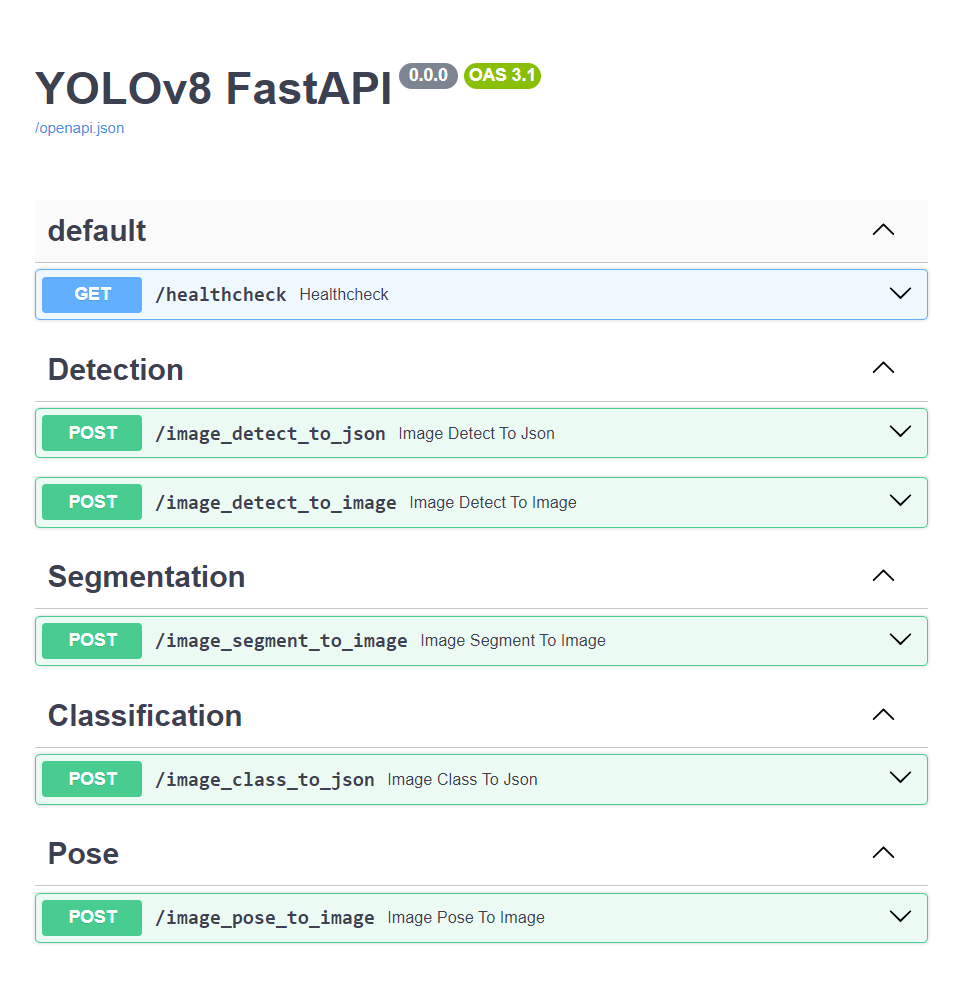
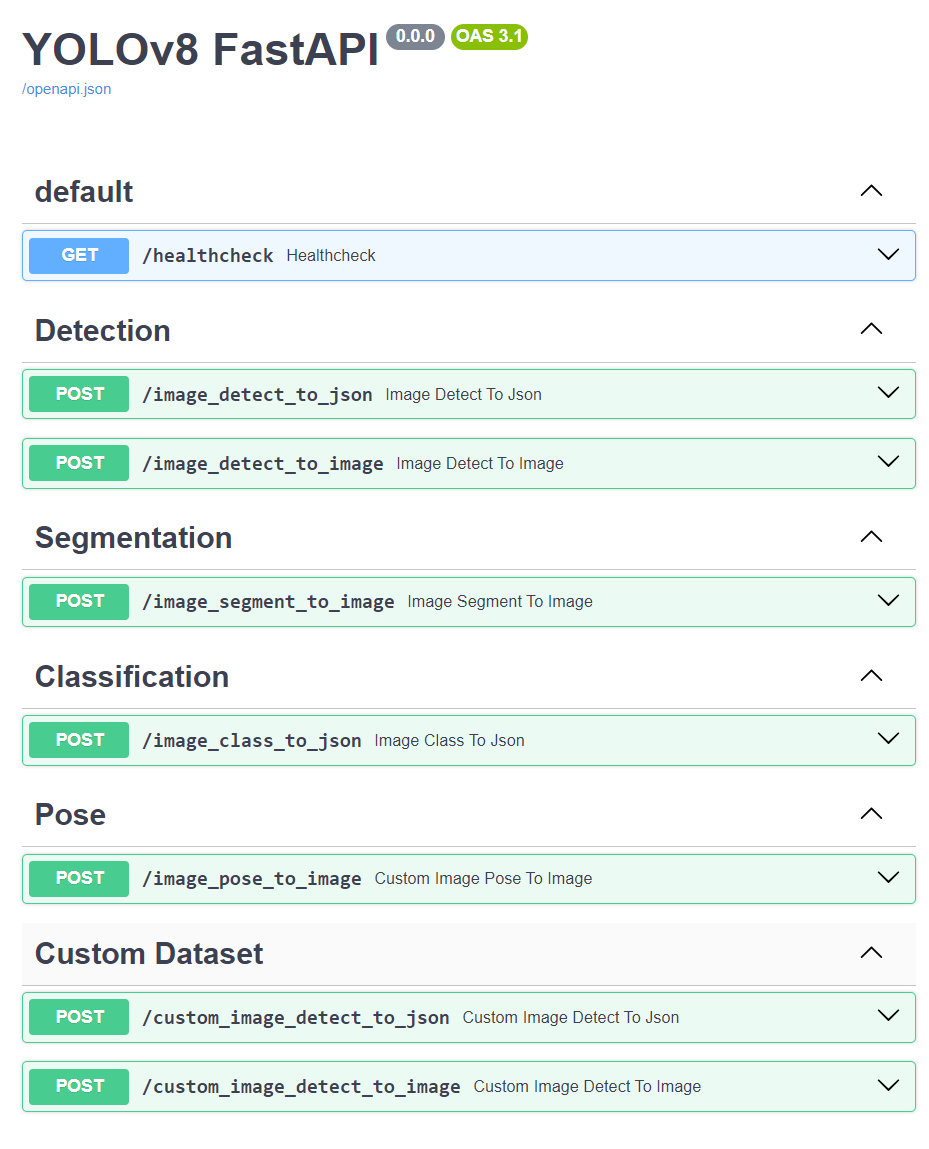
update README

diff --git a/README.md b/README.md
@@ -13,6 +13,9 @@ This is a simple implementation of YOLOv8 using FastAPI which contains the follo
   + [`/image_class_to_json`](#classification) : It returns a JSON format of classified objects along with their confidence score. [^1]
 + [Pose](#pose)
   + [`/image_pose_to_image`](#pose) : it requires an image and returns an annotated image.
++ [Custom Dataset](#custom-dataset)
+  + [`/custom_image_detect_to_json`](#custom-dataset) : ---
+  + [`/custom_image_detect_to_image`](#custom-image-detect-to-image) : ---
 
 [^1]: note that YOLOv8 [Classify Models](https://docs.ultralytics.com/tasks/classify/#models) are trained on [ImageNet](https://github.com/ultralytics/ultralytics/blob/main/ultralytics/cfg/datasets/ImageNet.yaml) Dataset.
 
@@ -28,7 +31,7 @@ This is a simple implementation of YOLOv8 using FastAPI which contains the follo
 
 ## Detection
 
-### Image detect to json
+### Image detect to JSON
 
 ![image_detect_to_json](/pics/image_detect_to_json.png)
 [Top](#yolo-fastapi)
@@ -47,7 +50,7 @@ This is a simple implementation of YOLOv8 using FastAPI which contains the follo
 
 ## Classification
 
-### Image class to json
+### Image class to JSON
 
 ![image_class_to_json](/pics/image_class_to_json.png)
 [Top](#yolo-fastapi)
@@ -57,4 +60,16 @@ This is a simple implementation of YOLOv8 using FastAPI which contains the follo
 ### Image pose to image
 
 ![image_pose_to_image](/pics/image_pose_to_image.png)
+[Top](#yolo-fastapi)
+
+## Custom Dataset
+
+### Custom Image Detect to JSON
+
+![custom_image_detect_to_json](/pics/custom_image_detect_to_json.png)
+[Top](#yolo-fastapi)
+
+### Custom Image Detect to Image
+
+![custom_image_detect_to_image](/pics/custom_image_detect_to_image.png)
 [Top](#yolo-fastapi)
